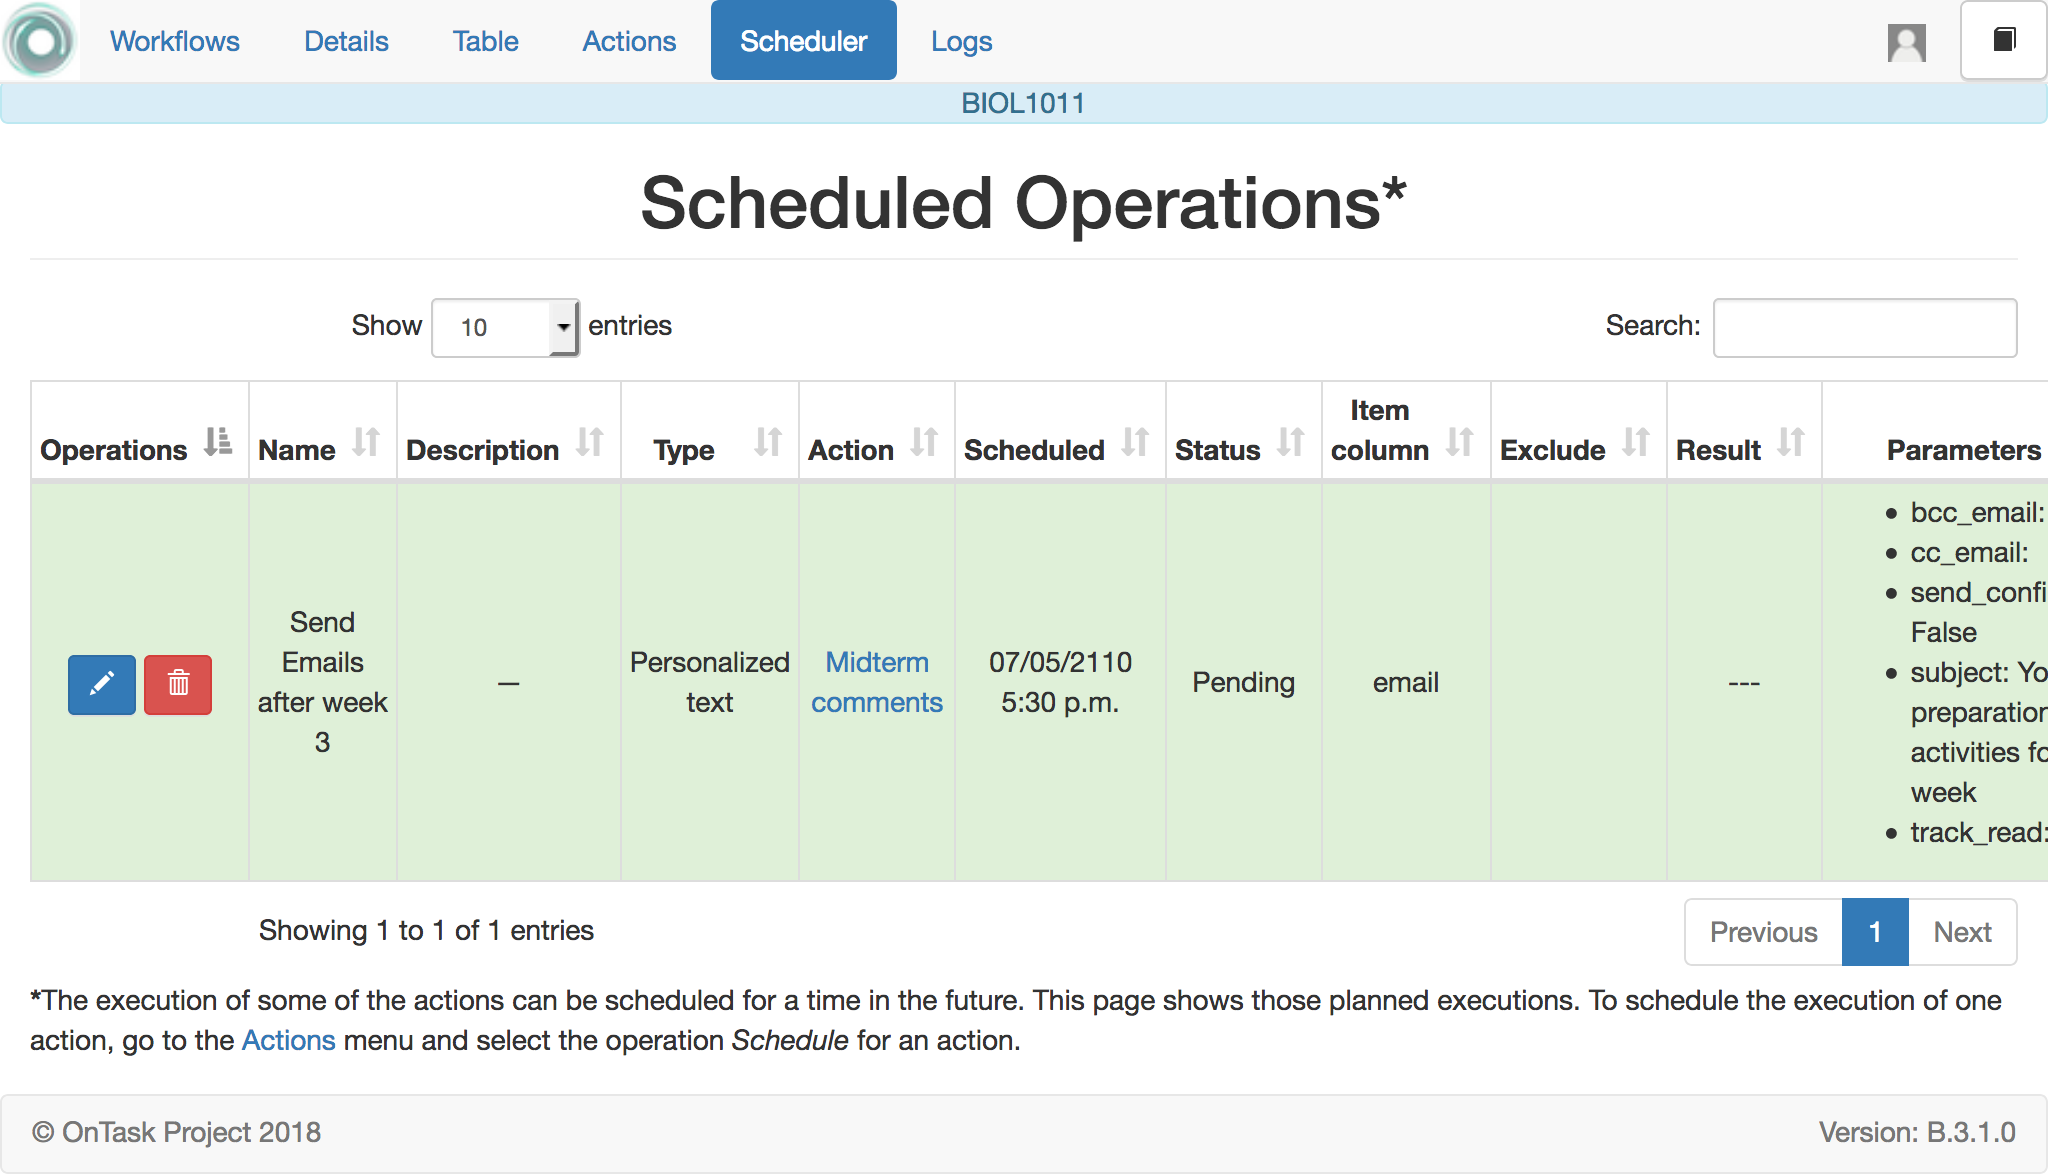
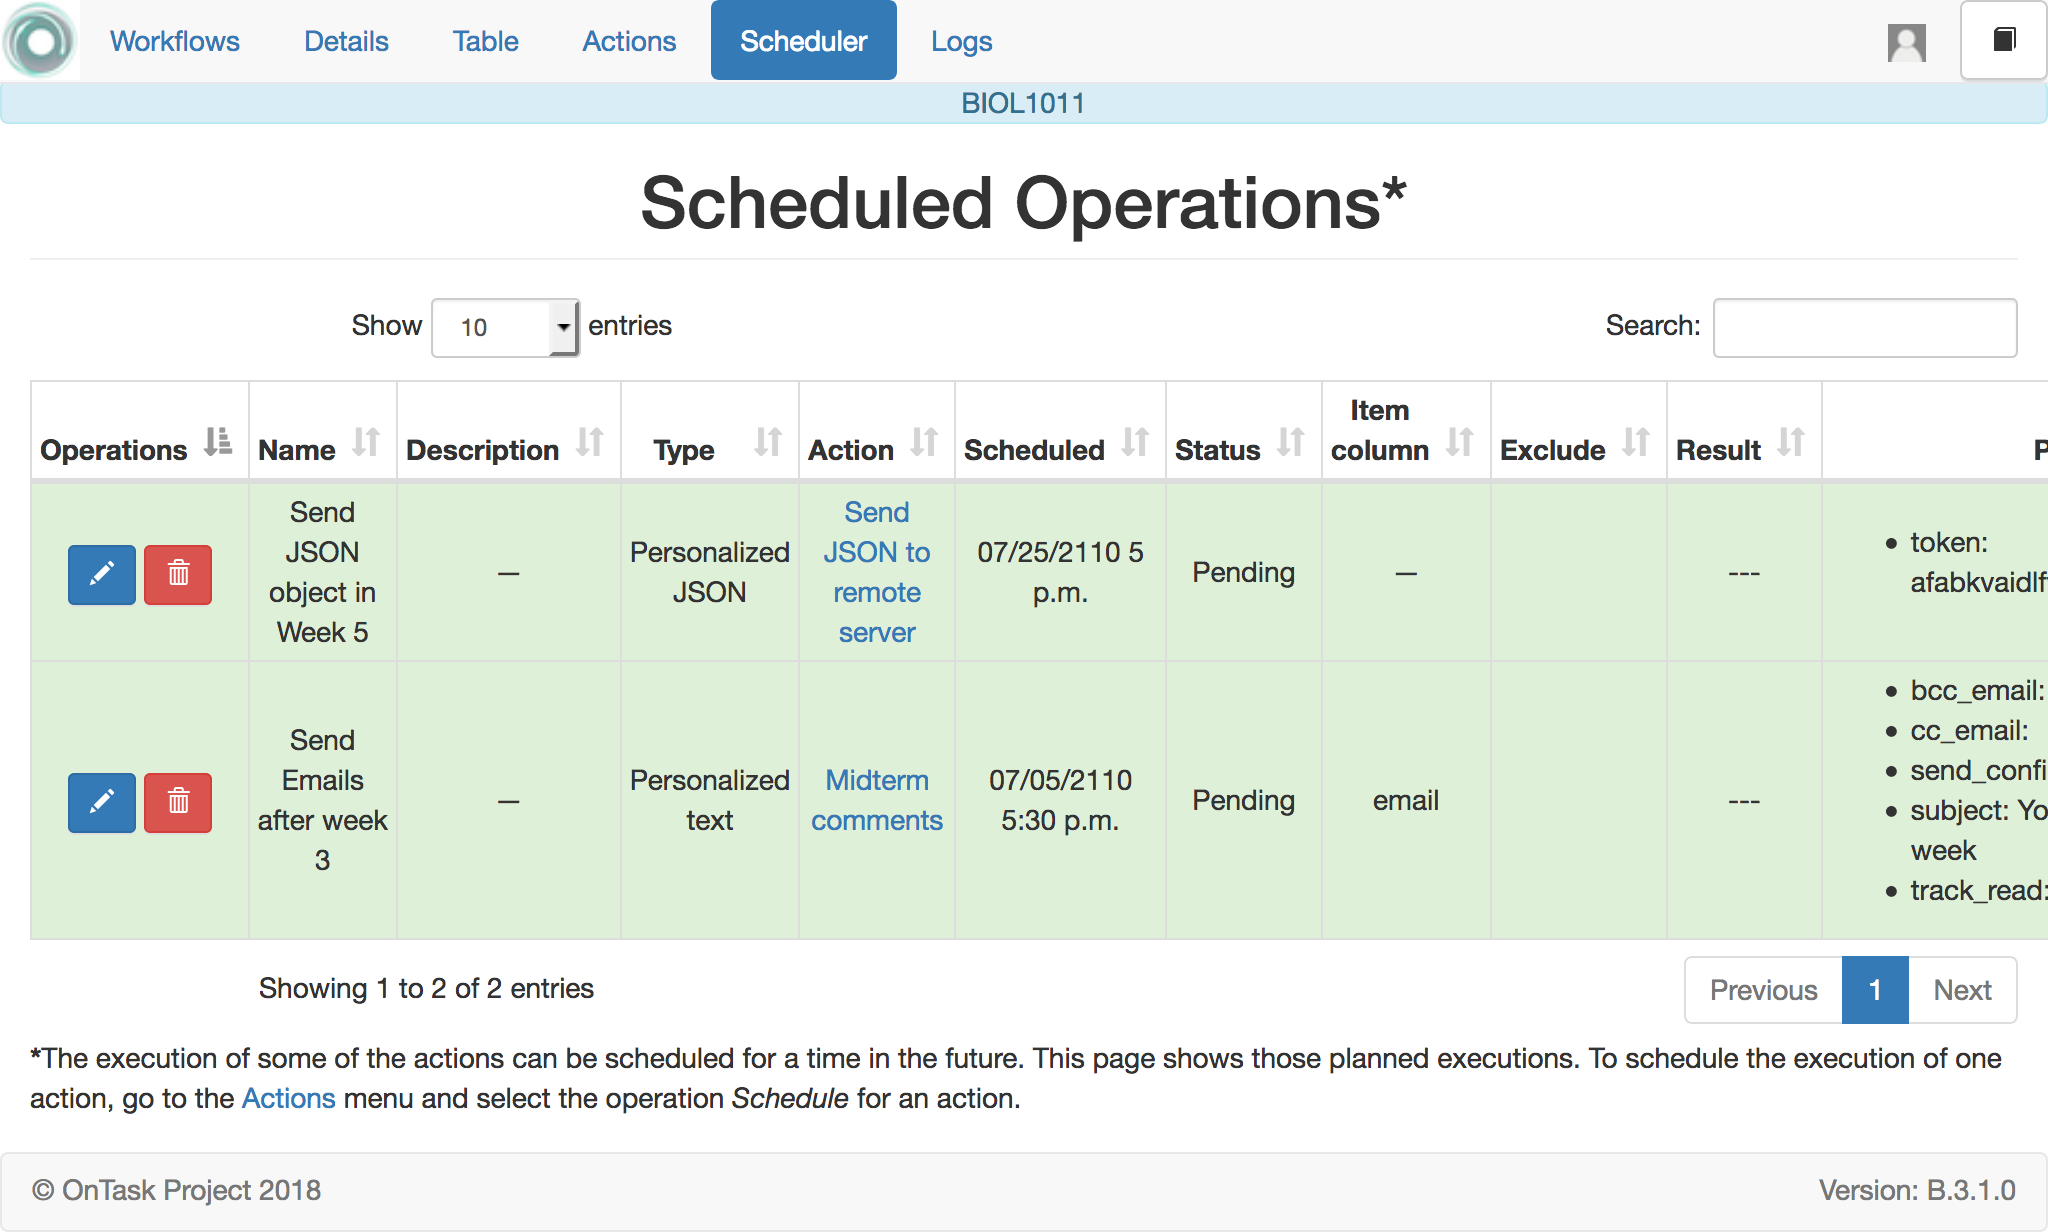
Refined documentation about how the scheduler works.

diff --git a/src/test/create_screen_captures.py b/src/test/create_screen_captures.py
@@ -692,7 +692,7 @@ class ScreenTestFixture(ScreenTests):
         self.go_to_actions()
 
         #
-        # Open Action Schedule
+        # Open Action Schedule and schedule the Personalized Text action
         #
         self.open_action_schedule('Midterm comments')
 
@@ -717,6 +717,40 @@ class ScreenTestFixture(ScreenTests):
 
         # Take picture of the export page.
         self.body_ss('schedule_action_email.png')
+
+        # Click the schedule button
+        self.selenium.find_element_by_xpath(
+            "//button[@type='Submit']"
+        ).click()
+        self.wait_for_page(title='OnTask :: Action scheduled')
+
+        #
+        # Actions
+        #
+        self.go_to_actions()
+
+        #
+        # Open Action Schedule and schedule the Personalized JSON
+        #
+        self.open_action_schedule('Send JSON to remote server')
+
+        # Fill out some fields
+        self.selenium.find_element_by_id('id_name').send_keys(
+            'Send JSON object in Week 5'
+        )
+        dt_widget = self.selenium.find_element_by_xpath(
+            "//input[@id='id_execute']"
+        )
+        self.selenium.execute_script(
+            "arguments[0].value = '2110-07-25 17:00:00';",
+            dt_widget
+        )
+        self.selenium.find_element_by_id('id_token').send_keys(
+            'afabkvaidlfvsidkfe..kekfioroelallasifjjf;alksid'
+        )
+
+        # Take picture of the export page.
+        self.body_ss('schedule_action_json.png')
 
         # Click the schedule button
         self.selenium.find_element_by_xpath(

diff --git a/docs_src/Using/index.rst b/docs_src/Using/index.rst
@@ -739,18 +739,9 @@ enable/disable it or even provide a date/time window for its availability.
    :align: center
    :width: 80%
 
-Once enabled, you may send the URL to the students (you may even use a
-personalized text action for that). Once the students click in the action,
-after authenticaiton, and if their email is part of hte table, they will be
-able to enter the information and the values are automatically stored in the
-right row and column in the table.
+Once enabled, you may send the URL to the students (you may even use a personalized text action for that). Once the students click in the action, after authentication, and if their email is part of hte table, they will be able to enter the information and the values are automatically stored in the right row and column in the table.
 
-These survey actions are ideal to collect information about any aspect of a
-course in a way that is centralized and available for further processing
-through personalized text actions. For example, users may choose from a
-pre-defined set of topics those that were more challenging. This information
-can then be used in a personalized text action to provide the adequate
-resources to each learner.
+These survey actions are ideal to collect information about any aspect of a course in a way that is centralized and available for further processing through personalized text actions. For example, users may choose from a pre-defined set of topics those that were more challenging. This information can then be used in a personalized text action to provide the adequate resources to each learner.
 
 .. _scheduler:
 
@@ -760,23 +751,27 @@ The Scheduler
    "I have no regular schedule. I get up whenever I can."
    -- Jimmy Wales
 
-The *personalized text actions* sending emails can be
-*scheduled* to execute at some point in the future. The *Schedule* operation
-for these actions opens a dialog like the one shown in the following figure:
+
+The *personalized text* and *personalized JSON* actions can be scheduled to execute at some point in the future. To schedule the execution go to the *Actions* page (select the option from the top menu), click in the *More* button for the action and then in the button *Schedule*.
+
+Scheduling a Personalized Text Action
+-------------------------------------
+
+The following figure shows the information requested to schedule the execution of a personalized text action (sending emails to learners):
 
 .. figure:: ../scaptures/schedule_action_email.png
    :align: center
 
+The fields in this form are:
+
 Name
-  A name to identify this scheduling (a user may have several of these
-  actions pending in a workflow)
+  A name to identify this scheduling (a user may have several of these actions pending in a workflow)
 
 Description
-  A brief description explaining this scheduled action.
+  A brief description explaining this scheduled action (for example, "send reminder before the exam")
 
 Column containing email
-  The column in the table used to fill out the destination email. OnTask will
-  check that the data in that column has the right format.
+  The column in the table used to fill out the destination email. OnTask will check that the values in that column are proper email addresses.
 
 When to execute the action
   A date/time in the future when the action will be executed.
@@ -785,47 +780,62 @@ Email subject
   The text to be included in the email subjects.
 
 Comma separated list of CC emails
-  A comma separated list of emails to include in the *carbon copy* (or CC)
-  field of the email.
+  A comma separated list of emails to include in the *carbon copy* (or CC) field of the email.
 
 Comma separated list of BCC emails
-  A comma separated list of emails to include in the *blind carbon copy* (or
-  BCC) field of the email.
+  A comma separated list of emails to include in the *blind carbon copy* (or BCC) field of the email.
 
 Send confirmation email
   Select this option if you want a confirmation email sent to you.
 
 Track when emails are read
-  Include in the messages a HTML snipped to detect if the email is read.
-  OnTask adds an extra column to the table to store the number of times the
-  message is opened. This detection relies on how the email client opens the
-  message and processes the included images, therefore, the information in
-  this column may not accurately reflect this information.
+  Try to detect if the email is read. OnTask adds an extra column to the table to store the number of times the message is opened. This detection relies on how the email client processes the message, therefore, the information in this column may not be accurate.
 
 Check/exclude emails
-  If selected, this option inserts an extra step in which you can eliminate
-  certain emails form the action. This feature is useful to remove certain
-  emails that cannot be removed with the filter.
+  If selected, this option inserts an extra step select emaisl and eleminate them from the action. This option is useful to perform a final check and remove emails that cannot be removed with action the filter.
 
-The *Schedule* in the top menu shows the page with the scheduled tasks for
-the current workflow. The left-most column offers the operations to edit or
-delete the scheduled execution.
+Scheduling a Personalized JSON Action
+-------------------------------------
+
+The following figure shows the information requested to schedule the execution of a personalized JSON action (sending JSON object to another platform):
+
+.. figure:: ../scaptures/schedule_action_json.png
+   :align: center
+
+The fields in this form are:
+
+Name
+  A name to identify this scheduling (a user may have several of these actions pending in a workflow)
+
+Description
+  A brief description explaining this scheduled action (for example, "send reminder before the exam")
+
+Column to select elements
+  A column to show its values and allow to review and exclude some of the entries. This option is useful to perform a final check and remove entries that cannot be removed with the action filter.
+
+Authentication Token
+  The string to be use to authenticate with the external platform.
+
+The Scheduler Menu
+------------------
+
+The *Scheduler* in the top menu is a link to a page that shows the tasks scheduled for execution in the selected workflow.
 
 .. figure:: ../scaptures/schedule.png
    :align: center
+
+The left-most column offers the operations to edit or delete the scheduled execution.
 
 .. _logs:
 
 The Logs
 ========
 
-The platform keeps a log of most of the operations that are executed when
-managing a workflow. These records are available through the *Logs* link in
-the navigation bar at the top of the screen.
+The platform keeps a log of most of the operations that are executed when managing a workflow. These records are available through the *Logs* link in the navigation bar at the top of the screen.
 
 .. figure:: ../scaptures/logs.png
 
-You may review the events and download them as a CSV file.
+You may download all logs as a CSV file.
 
 .. _plugin_run:
 
